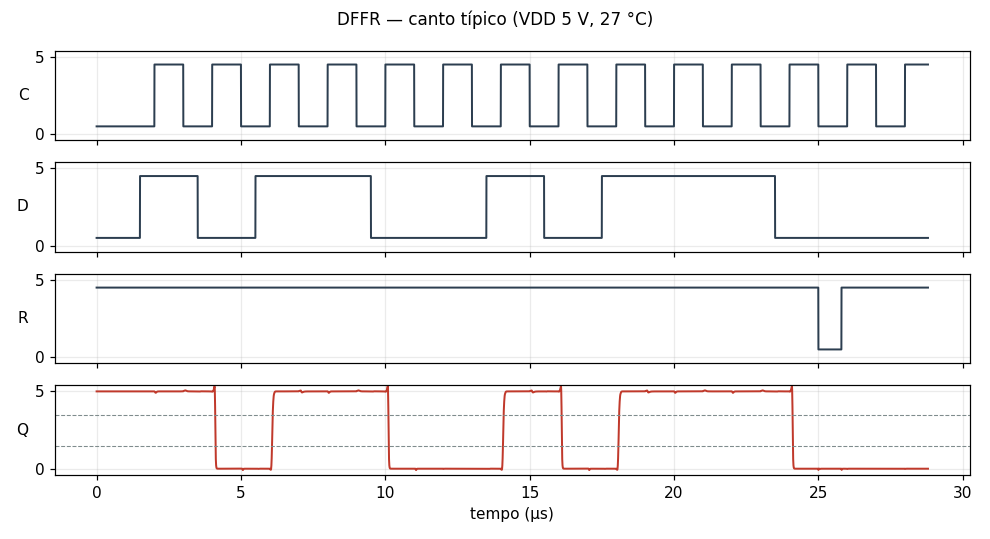
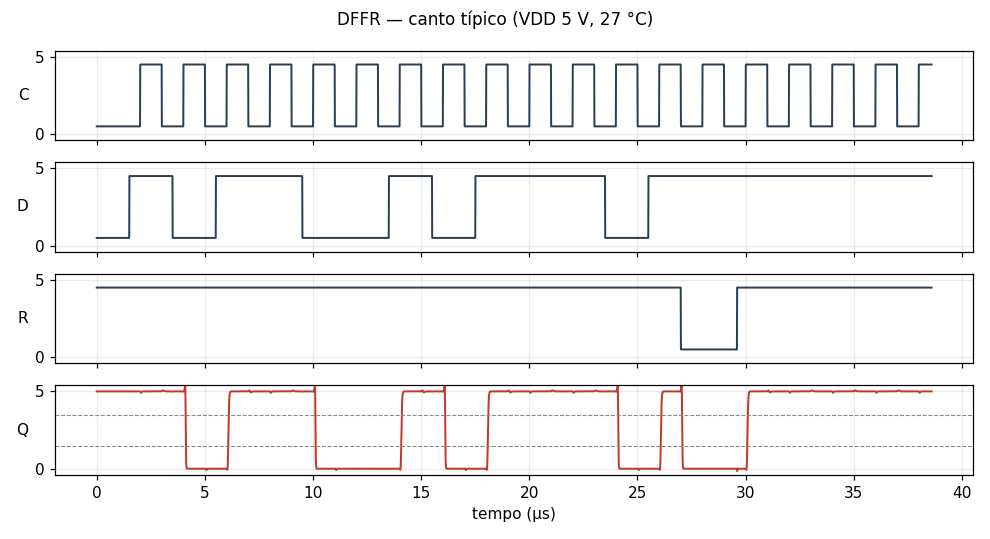
feat: DFFR publicado mostra o clear assíncrono vencendo o clock e o dado
No teste exportado de um flip-flop com clear (ou preset), Q fica no valor
oposto antes de o clear chegar, e o clear entra no meio de um ciclo (Q muda
na hora, sem esperar o clock), atravessa uma borda ativa com o dado
contrário (Q não muda) e solta (Q volta na borda seguinte). Cada passo é
uma medida, com o esperado comentado no netlist. Gráficos refeitos na RTL e
na CMOS.

Ferramenta:
- netlist que não termina em 180 s conta como falha daquele ponto (o
  ngspice não converge, ex.: um flip-flop de relés com o dado mudando no
  meio da troca dos contatos), em vez de travar;
- lotes do --design configuráveis por família ("batch" em "timing");
- o aviso de hold ignora os cantos em que a célula falha;
- --export com --cells só atualiza as células pedidas;
- tempos em ms/µs/ns sem notação científica.

Claude-Session: https://claude.ai/code/session_013exKnmfPHn9455hNDGVVGS

diff --git a/pcbflow/cellsim.py b/pcbflow/cellsim.py
@@ -74,7 +74,8 @@ TIMING = {"step": 20e-6,          # duração de cada combinação de entrada na
           "holds": [1e-6, 5e-7, 3e-7, 2e-7, 1e-7, 5e-8, 2e-8, 1e-8],
           "setups": [1e-6, 5e-7, 3e-7, 2e-7, 1e-7, 5e-8, 2e-8, 1e-8],
           "resolution": 5e-9,     # passo da simulação nas varreduras dos flip-flops
-          "edge": 2e-9}           # rampa das fontes de entrada
+          "edge": 2e-9,           # rampa das fontes de entrada
+          "batch": 64}            # vetores por netlist no --design
 VTH = 1.0            # limiar para medir atrasos na RTL (entre o nível baixo e o alto)
 VOL_MAX = 0.5        # nível baixo máximo na RTL: a próxima base fica cortada
 
@@ -256,10 +257,21 @@ def pwl(points, edge):
     return "PWL(" + " ".join(out) + ")"
 
 
+TIMEOUT = 180       # segundos por netlist: além disso, o ponto do teste conta como falha
+
+
 def run_deck(ngspice, path, text):
+    """Roda o netlist e devolve as medidas {nome: valor}. Um netlist que não
+    termina em TIMEOUT (o ngspice não converge, ex.: um flip-flop de relés com
+    o dado mudando no meio da troca dos contatos) devolve {}: o ponto falha."""
     path.write_text(text, encoding="utf-8")
-    r = subprocess.run([ngspice, "-b", path.name], capture_output=True, text=True, encoding="utf-8",
-                       errors="replace", cwd=path.parent)
+    try:
+        r = subprocess.run([ngspice, "-b", path.name], capture_output=True, text=True, encoding="utf-8",
+                           errors="replace", cwd=path.parent, timeout=TIMEOUT)
+    except subprocess.TimeoutExpired:
+        (path.with_suffix(".log")).write_text(f"ngspice não terminou em {TIMEOUT} s (não convergiu)\n",
+                                               encoding="utf-8")
+        return {}
     out = r.stdout + r.stderr
     (path.with_suffix(".log")).write_text(out, encoding="utf-8")
     vals = {m.group(1).lower(): float(m.group(2))
@@ -527,28 +539,41 @@ def sim_ff(lib, models, corner, cell, work, ngspice, capture=None):
     # funcional, com período folgado e o dado mudando longe das bordas
     clk_name, rising, data, asyn, qpin = _ff_pins(c)
     if capture:
-        # para publicar: o funcional, com o clear (se houver) no fim
-        bits = BITS
-        clear = None
-        tail = []
+        # Para publicar: o funcional e, se houver clear/preset, a prova de que ele é
+        # assíncrono e manda mais que o clock e o dado: com Q no valor oposto, ele
+        # chega no meio de um ciclo (Q muda na hora), atravessa uma borda ativa com
+        # o dado contrário (Q não muda) e solta (Q volta na borda seguinte).
+        P = corner.period
+        bits = list(BITS)
+        want = list(BITS)
+        tail, clear, extra_vec = [], None, []
         if asyn:
-            key, _ = next(iter(asyn.values()))
-            t0 = (len(bits) + 0.5) * corner.period
-            clear = (t0, t0 + 0.4 * corner.period)
-            tail = [f"meas tran rst FIND v(out_{qpin}) AT={t0 + 0.3 * corner.period:.9g}"]
-        deck, *_ = _ff_deck(lib, models, corner, cell, corner.period, bits, corner.period / 4, tail, clear, tstep=corner.period / 400)
+            pin, (key, inactive) = next(iter(asyn.items()))
+            level = 0 if key == "clear" else 1
+            n0 = len(bits)
+            bits += [1 - level] * 4                    # Q fica no valor oposto ao do clear/preset
+            want += [1 - level] * 4
+            t0, t1 = (n0 + 1.5) * P, (n0 + 2.8) * P     # do meio de um ciclo até depois da borda seguinte
+            clear = (t0, t1)
+            want[n0 + 1] = level                       # amostrado em (n0 + 2,45) P: ainda com o clear
+            tail = [f"meas tran rst_a FIND v(out_{qpin}) AT={t0 + 0.25 * P:.15g}",
+                    f"meas tran rst_b FIND v(out_{qpin}) AT={(n0 + 2) * P + 0.3 * P:.15g}"]
+            extra_vec = [f"{pin} = {1 - inactive} de {_ns(t0)} a {_ns(t1)} ({key} assíncrono, com Q = {1 - level} "
+                         f"e {data[0]} = {1 - level})",
+                         f"  {_ns(t0 + 0.25 * P)}, no meio do ciclo  ->  rst_a: {qpin}={level} (muda sem esperar o clock)",
+                         f"  {_ns((n0 + 2) * P + 0.3 * P)}, depois da borda {n0 + 2}  ->  rst_b: {qpin}={level} "
+                         f"(o {key} vence o clock e o dado)",
+                         f"  borda {n0 + 3}, depois de soltar  ->  q_{n0 + 2}: {qpin}={1 - level} (volta a obedecer o dado)"]
+        deck, *_ = _ff_deck(lib, models, corner, cell, P, bits, P / 4, tail, clear, tstep=P / 400)
         edge = "subida" if rising else "descida"
-        vectors = [f"borda de {edge} {k + 1} em {(k + 1) * corner.period * 1e6:g} µs: {data[0]}={b} "
-                   f"(muda {corner.period / 4 * 1e6:g} µs antes)  ->  q_{k}: {qpin}={b}" for k, b in enumerate(bits)]
-        if asyn:
-            p, (key, inactive) = next(iter(asyn.items()))
-            vectors.append(f"{p} = {1 - inactive} de {clear[0] * 1e6:g} a {clear[1] * 1e6:g} µs ({key} assíncrono)"
-                           f"  ->  rst: {qpin}={0 if key == 'clear' else 1}")
+        vectors = [f"borda de {edge} {k + 1} em {_ns((k + 1) * P)}: {data[0]}={b} (muda {_ns(P / 4)} antes)"
+                   f"  ->  q_{k}: {qpin}={w}" for k, (b, w) in enumerate(zip(bits, want))] + extra_vec
         sig = [f"in_{clk_name}", f"in_{data[0]}"] + [f"in_{p}" for p in asyn] + [f"out_{qpin}"]
         deck = _capture(deck, capture.name, sig, _about(lib, corner, cell, lv, _loads_note(lib, cell, [qpin]), vectors))
         vals = run_deck(ngspice, capture.with_suffix(".cir"), deck)
-        ok = _ff_ok(vals, bits, lv) and (not asyn or logic(vals.get("rst", float("nan")), lv) ==
-                                         (0 if next(iter(asyn.values()))[0] == "clear" else 1))
+        ok = _ff_ok(vals, want, lv)
+        if asyn:
+            ok = ok and all(logic(vals.get(m, float("nan")), lv) == level for m in ("rst_a", "rst_b"))
         return {"ok": ok, "fails": [] if ok else ["teste funcional exportado falhou"], "signals": sig}
     meas = []
     for k in range(1, len(BITS)):
@@ -678,20 +703,17 @@ def _evaluate(lib, design, env):
     return val
 
 
-BATCH = 64     # vetores por netlist: com o tempo absoluto pequeno, o passo de tempo não esbarra
-               # na precisão do double (bordas de ns em 1 ms de simulação faziam o ngspice abortar)
-
-
 def sim_design(lib, models, corner, design, vectors, work, ngspice, capture=None):
-    """Simula o circuito com os vetores [{entrada: 0/1}], em lotes de BATCH; cada
+    """Simula o circuito com os vetores [{entrada: 0/1}], em lotes (timing.batch no library.json); cada
     lote começa repetindo o último vetor do anterior, para medir a transição."""
+    batch = int(corner.batch)
     if capture:                                   # para publicar: só o primeiro lote
-        return _sim_batch(lib, models, corner, design, vectors[:BATCH], work, ngspice, capture, 0, False)
+        return _sim_batch(lib, models, corner, design, vectors[:batch], work, ngspice, capture, 0, False)
     out = {"ok": True, "fails": [], "vectors": len(vectors), "tpd": None, "where": None,
            "cells": len(design.instances), "parts": len(design.parts)}
-    for i in range(0, len(vectors), BATCH):
+    for i in range(0, len(vectors), batch):
         first = max(0, i - 1)
-        r = _sim_batch(lib, models, corner, design, vectors[first:i + BATCH], work, ngspice, None, first, i > 0)
+        r = _sim_batch(lib, models, corner, design, vectors[first:i + batch], work, ngspice, None, first, i > 0)
         out["fails"] += r["fails"]
         if r["tpd"] and (out["tpd"] is None or r["tpd"] > out["tpd"]):
             out["tpd"], out["where"] = r["tpd"], r["where"]
@@ -833,9 +855,9 @@ def export_design(lib, design, vectors, outdir, res, log=print, window=32):
         f.unlink()
     L = [f"# Circuito `{design.top}` na família `{Path(lib.path).name}` (ngspice)", "",
          f"{len(design.instances)} células, {len(design.parts)} componentes, {len(vectors)} vetores "
-         "(todas as combinações das entradas, simuladas em lotes de 64). Cada vetor é conferido contra a "
+         f"(todas as combinações das entradas, simuladas em lotes de {int(cs[0].batch)}). Cada vetor é conferido contra a "
          "lógica do netlist; o caminho crítico é o último cruzamento de uma saída depois da mudança das "
-         f"entradas. O netlist publicado tem os primeiros {min(BATCH, len(vectors))} vetores.", "",
+         f"entradas. O netlist publicado tem os primeiros {min(int(cs[0].batch), len(vectors))} vetores.", "",
          "| Canto | Resultado | Caminho crítico |", "|---|---|---|"]
     for name, x in res.items():
         L.append(f"| {name} | {'OK' if x['ok'] else '**falhou**'} | "
@@ -930,9 +952,10 @@ def check_family(lib, cells=None, work=None, log=print, jobs=None):
     warns = [f"{cell} ({corner}): {w}" for cell, by in res.items() for corner, r in by.items()
              for w in r.get("warns", [])]
     for cell, by in res.items():
-        ckqs = [r["ckq"][0] for r in by.values() if r.get("ckq")]
+        ok = [r for r in by.values() if r["ok"]]        # num canto em que a célula falha, não há hold
+        ckqs = [r["ckq"][0] for r in ok if r.get("ckq")]
         # conservador: o lado de cima do intervalo do hold (o último que passou)
-        holds = [r["hold"][0] or r["hold"][1] for r in by.values() if r.get("hold") and r["hold"][1]]
+        holds = [r["hold"][0] or r["hold"][1] for r in ok if r.get("hold") and r["hold"][1]]
         if ckqs and holds and max(holds) >= min(ckqs):
             warns.append(f"{cell}: hold de até {max(holds) * 1e9:.0f} ns >= clock -> Q mínimo de "
                          f"{min(ckqs) * 1e9:.0f} ns: um {cell} ligado direto em outro capturaria o dado novo")
@@ -986,6 +1009,8 @@ def export(lib, cells, outdir, res, corners, warns, log=print):
             f.unlink()
         shown[cell] = r["ok"]
         log(f"  {cell:<9} exportado ({'OK' if r['ok'] else 'FALHOU'})")
+    if set(cells) != set(lib.cells):
+        return                                   # só algumas células: o README e os resultados ficam
     report(outdir / "resultados.md", lib, res, corners, warns)
     L = [f"# Células da família `{Path(lib.path).name}` no ngspice", "",
          "Cada célula da família é simulada como circuito de verdade, com o modelo SPICE dos componentes, "
@@ -1010,7 +1035,7 @@ def _ns(v):
         return "—"
     if v >= 1e-3:
         return f"{v * 1e3:.3g} ms"
-    return f"{v * 1e6:.2g} µs" if v >= 1e-6 else f"{v * 1e9:.3g} ns"
+    return f"{v * 1e6:.3g} µs" if v >= 1e-6 else f"{v * 1e9:.3g} ns"
 
 
 def _status(r):
